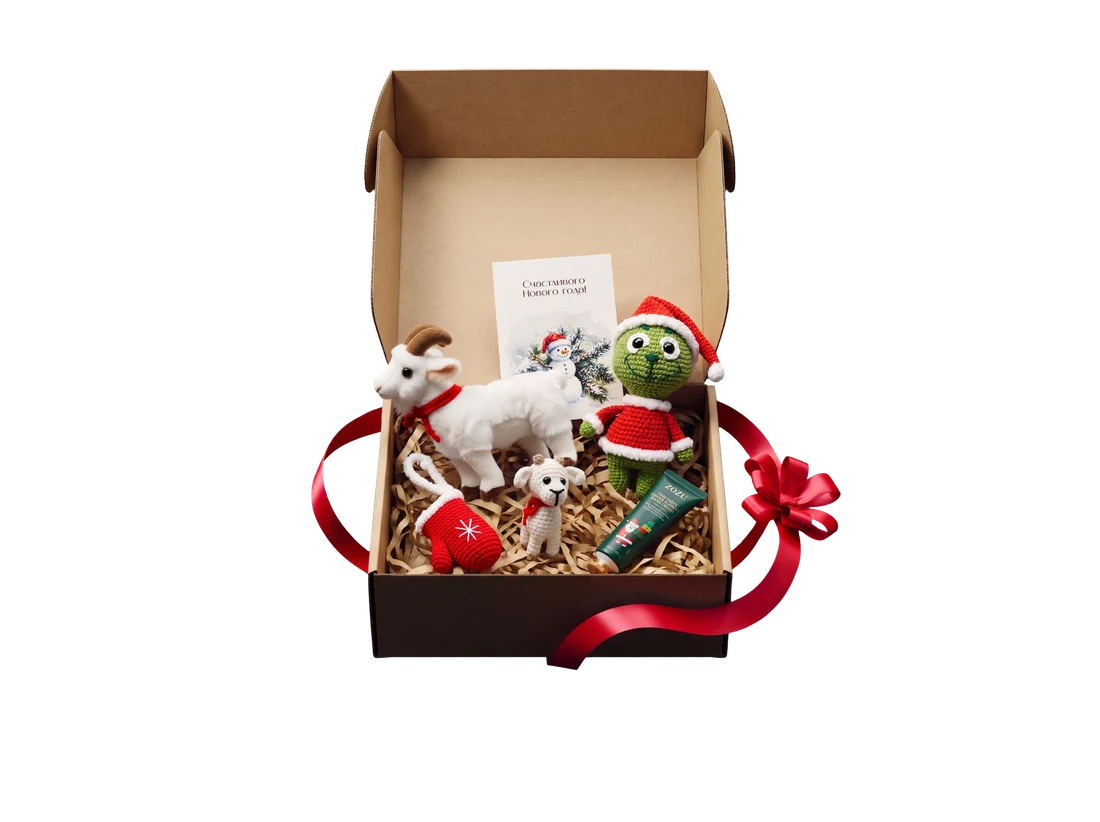
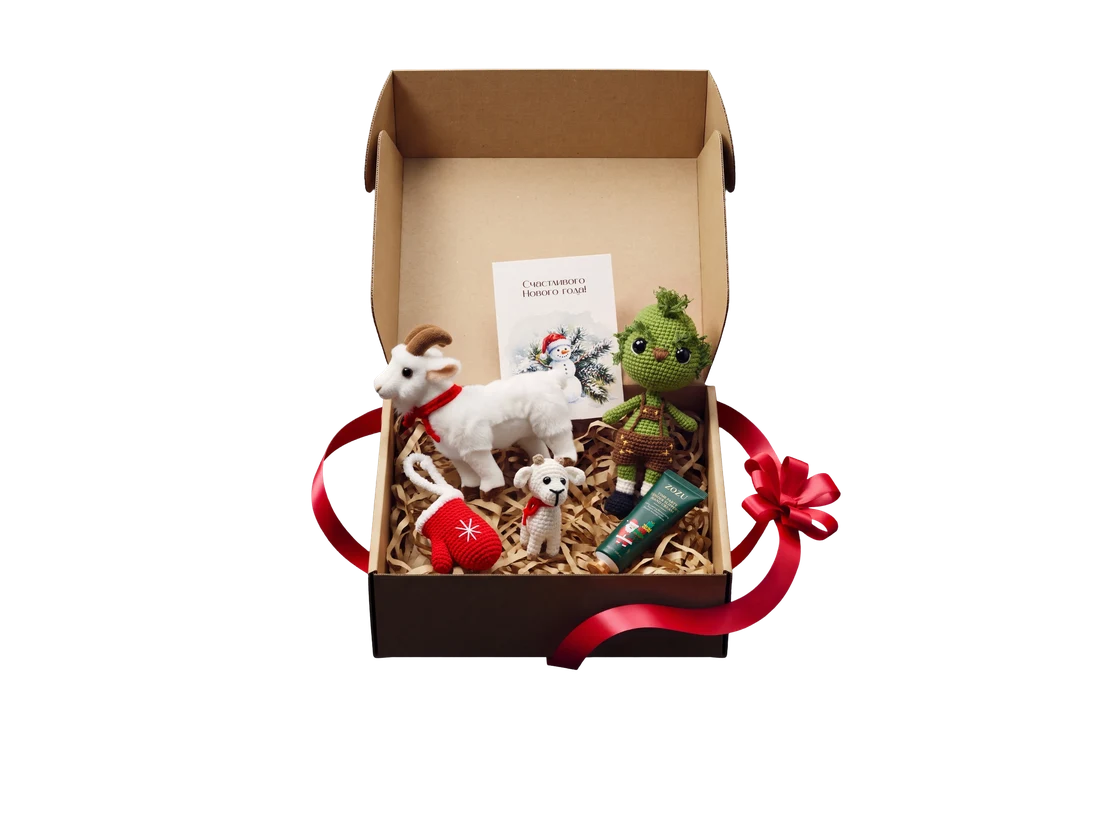
Book block: new set L photo (all versions)
Claude-Session: https://claude.ai/code/session_015XqF1CjjwNsnGRDEGdD4mP

Changed region(s): [[0.5255, 0.3345, 0.68, 0.6387]]

diff --git a/index.html b/index.html
@@ -19,9 +19,9 @@
       window.__drinknitMode = m ? 'm' : 'd';
       document.documentElement.classList.add(m ? 'is-p' : 'is-d');
       var add = function (rel, href, as) { var l = document.createElement('link'); l.rel = rel; l.href = href; if (as) l.as = as; document.head.appendChild(l); };
-      add('preload', 'assets/box-closed.webp', 'image'); add('stylesheet', 'desktop.css?v=20261104b');
+      add('preload', 'assets/box-closed.webp', 'image'); add('stylesheet', 'desktop.css?v=20261104c');
       // телефон и вертикальный планшет: те же блоки и анимации в вертикальном кадре
-      if (m) add('stylesheet', 'portrait.css?v=20261104b');
+      if (m) add('stylesheet', 'portrait.css?v=20261104c');
       var t;
       addEventListener('resize', function () { clearTimeout(t); t = setTimeout(function () { if (isM() !== m) location.reload(); }, 250); });
     })();
@@ -281,7 +281,7 @@
         <p class="b8-name">Набор M</p><p class="b8-price"><span data-price="M"></span> ₽</p>
       </div></div>
       <div class="b8-card" data-card="2"><div class="b8-card-in" data-set-pick="L">
-        <div class="stamp-win"><img class="w-bg" src="assets/d/card-bg.webp" alt=""><img class="w-prod" style="width:476.786px;height:356px;top:-15px" src="assets/d/card-L.webp" alt="Набор L"></div>
+        <div class="stamp-win"><img class="w-bg" src="assets/d/card-bg.webp" alt=""><img class="w-prod" style="width:476.786px;height:356px;top:-15px" src="assets/d/card-L.webp?v=2" alt="Набор L"></div>
         <p class="b8-name">Набор L</p><p class="b8-price"><span data-price="L"></span> ₽</p>
       </div></div>
     </div>
@@ -367,12 +367,12 @@
       var load = function (src, next) { var s = document.createElement('script'); s.src = src; if (next) s.onload = next; document.body.appendChild(s); };
       // содержимое из админки (content.js) → тексты на странице → данные → сценарий страницы
       load('content.js?t=' + Date.now(), function () {
-        load('texts.js?v=20261104b', function () {
+        load('texts.js?v=20261104c', function () {
           var C = window.DRINKNIT_CONTENT || {};
           window.DrinknitTexts.apply(document.body, C.texts);
           window.DrinknitTexts.applyMeta(C.meta);
-          load('analytics.js?v=20261104b');
-          load('data.js?v=20261104b', function () { load('desktop.js?v=20261104b'); });
+          load('analytics.js?v=20261104c');
+          load('data.js?v=20261104c', function () { load('desktop.js?v=20261104c'); });
         });
       });
     })();
